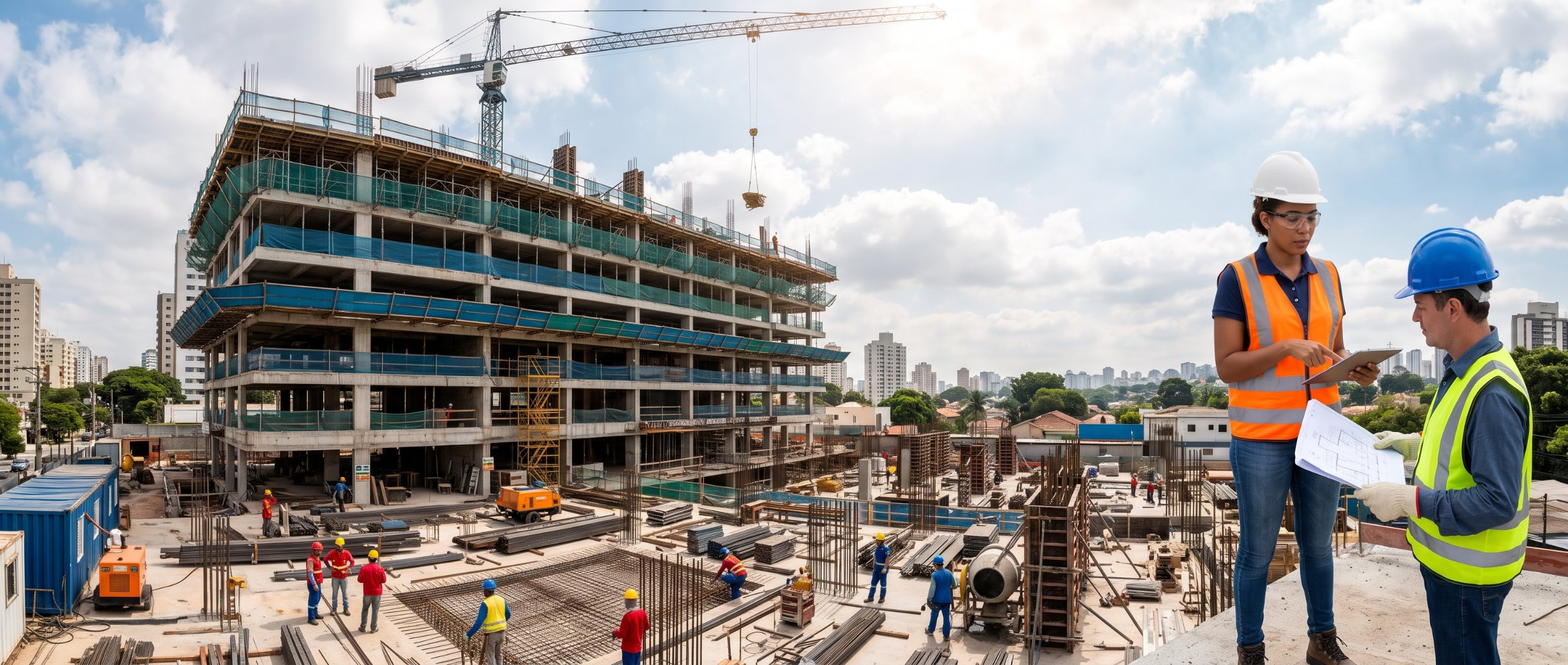
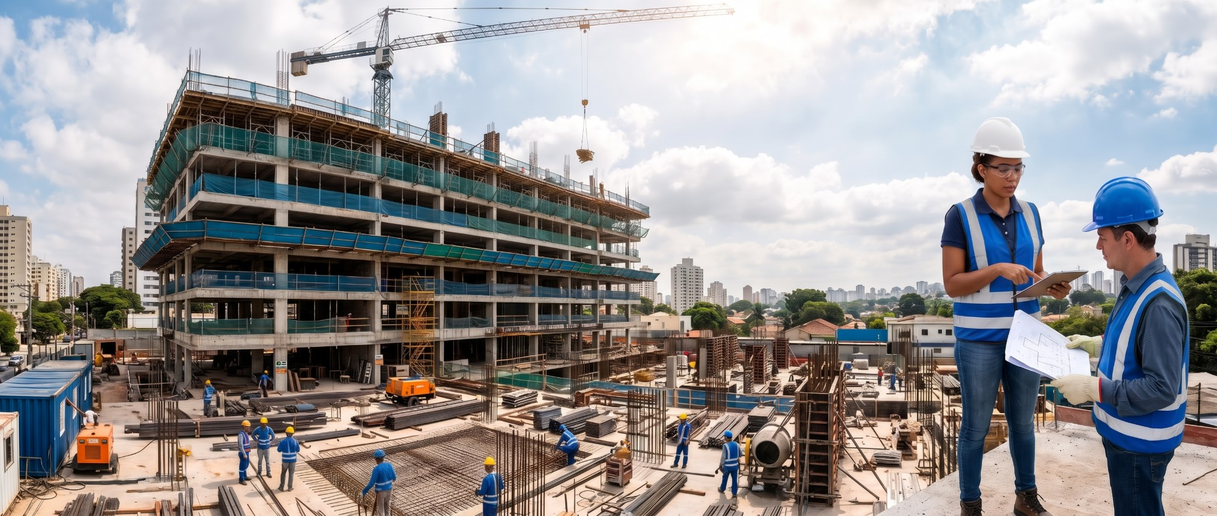
feat: nova imagem de fundo no hero
- substitui hero-canteiro.jpg pela foto do canteiro com os engenheiros (2000×848, 493 KB)
- object-position em 90% para manter os engenheiros visíveis em telas menores

diff --git a/index.html b/index.html
@@ -42,7 +42,7 @@ a{color:#163A8C}a:hover{color:#0E2A6B}
 
   <!-- Hero -->
   <section id="topo" style="position: relative; overflow: hidden; background: #0A1838; color: #FFFFFF; margin-top: -80px">
-    <img data-hero-img="1" src="assets/img/hero-canteiro.jpg" alt="" style="position: absolute; top: 0; left: 0; width: 100%; height: 110%; object-fit: cover; object-position: 70% center">
+    <img data-hero-img="1" src="assets/img/hero-canteiro.jpg" alt="" style="position: absolute; top: 0; left: 0; width: 100%; height: 110%; object-fit: cover; object-position: 90% center">
     <div style="position: absolute; top: 0; left: 0; width: 100%; height: 100%; background: linear-gradient(90deg, rgba(8,20,48,0.86) 0%, rgba(8,20,48,0.62) 55%, rgba(8,20,48,0.4) 100%)"></div>
     <div style="position: absolute; left: 0; right: 0; bottom: 0; height: 40%; background: linear-gradient(180deg, rgba(8,20,48,0) 0%, rgba(8,20,48,0.7) 100%)"></div>
     <div style="position: relative; padding: 200px clamp(20px, 4vw, 56px) 112px; min-height: 820px; box-sizing: border-box; display: flex; flex-direction: column; justify-content: flex-end; gap: 26px">
